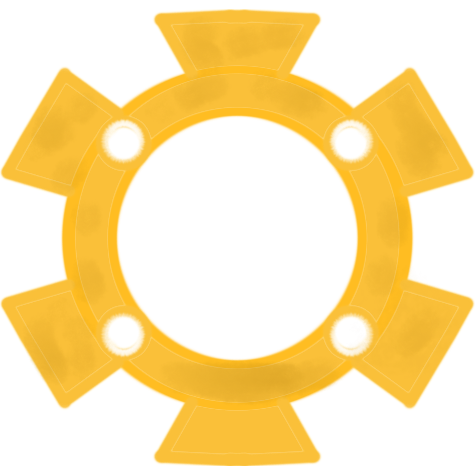
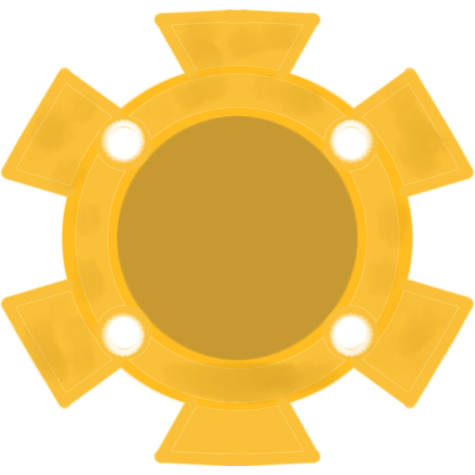
Make Button Working

Changed region(s): [[0.2358, 0.2358, 0.7663, 0.7663]]

diff --git a/src/SudokuGame/View.java b/src/SudokuGame/View.java
@@ -43,6 +43,7 @@ public class View extends Application {
 	SudokuModel model;
 	Controller controller;
 	ButtonPanel buttonPanel;
+	Stage stage;
 	
 	long timeCounter;
 	
@@ -138,7 +139,6 @@ public class View extends Application {
 		buttonGameStart.setOnAction(new EventHandler<ActionEvent>() {
 			@Override public void handle(ActionEvent e) {
 				stage.setScene(initGameScene());
-
 			}
 		});
 
@@ -319,14 +319,15 @@ public class View extends Application {
 	}
 	
 	void initUI(Stage stage) {
-		Scene scene = initGameStartScene(stage);//changed for test
+		this.stage = stage;
+		Scene scene = initGameStartScene(this.stage);//changed for test
 		controller = new StartController(this);
 		initController(scene);
 		
 		
-		stage.setTitle("Sudoku game");
-		stage.setScene(scene);
-		stage.show();
+		this.stage.setTitle("Sudoku game");
+		this.stage.setScene(scene);
+		this.stage.show();
 		
 		timeCounter = 0;
 		AnimationTimer timer = new AnimationTimer() {

diff --git a/src/SudokuGame/SudokuController.java b/src/SudokuGame/SudokuController.java
@@ -64,9 +64,15 @@ public class SudokuController extends Controller{
 			for(int i = 0; i < ButtonPanel.BUTTONNUM; i ++) {
 				if (view.buttonPanel.select[i]) {
 					switch(i) {
+					case 0:
+						view.stage.setScene(view.initGameScene());
+						break;
 					case 1:
 						boolean isWin = view.model.isGameSolved();
 						System.out.println(isWin);
+						break;
+					case 2:
+						view.stage.setScene(view.initInstructionScene(view.stage));
 						break;
 					}
 				}
